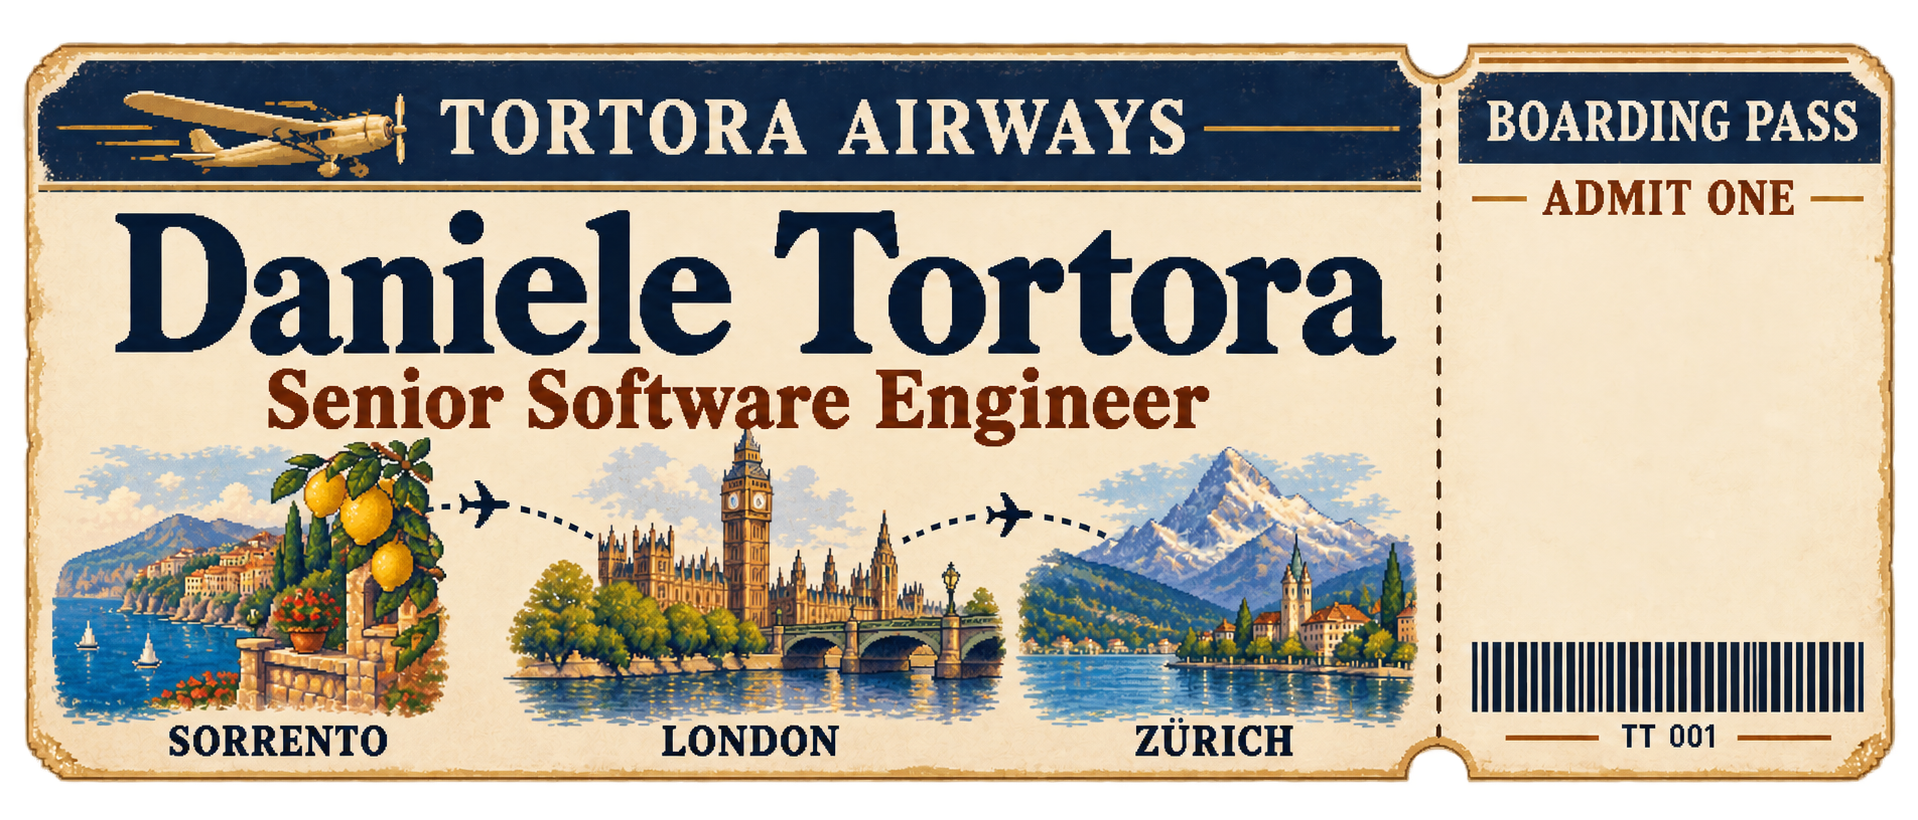
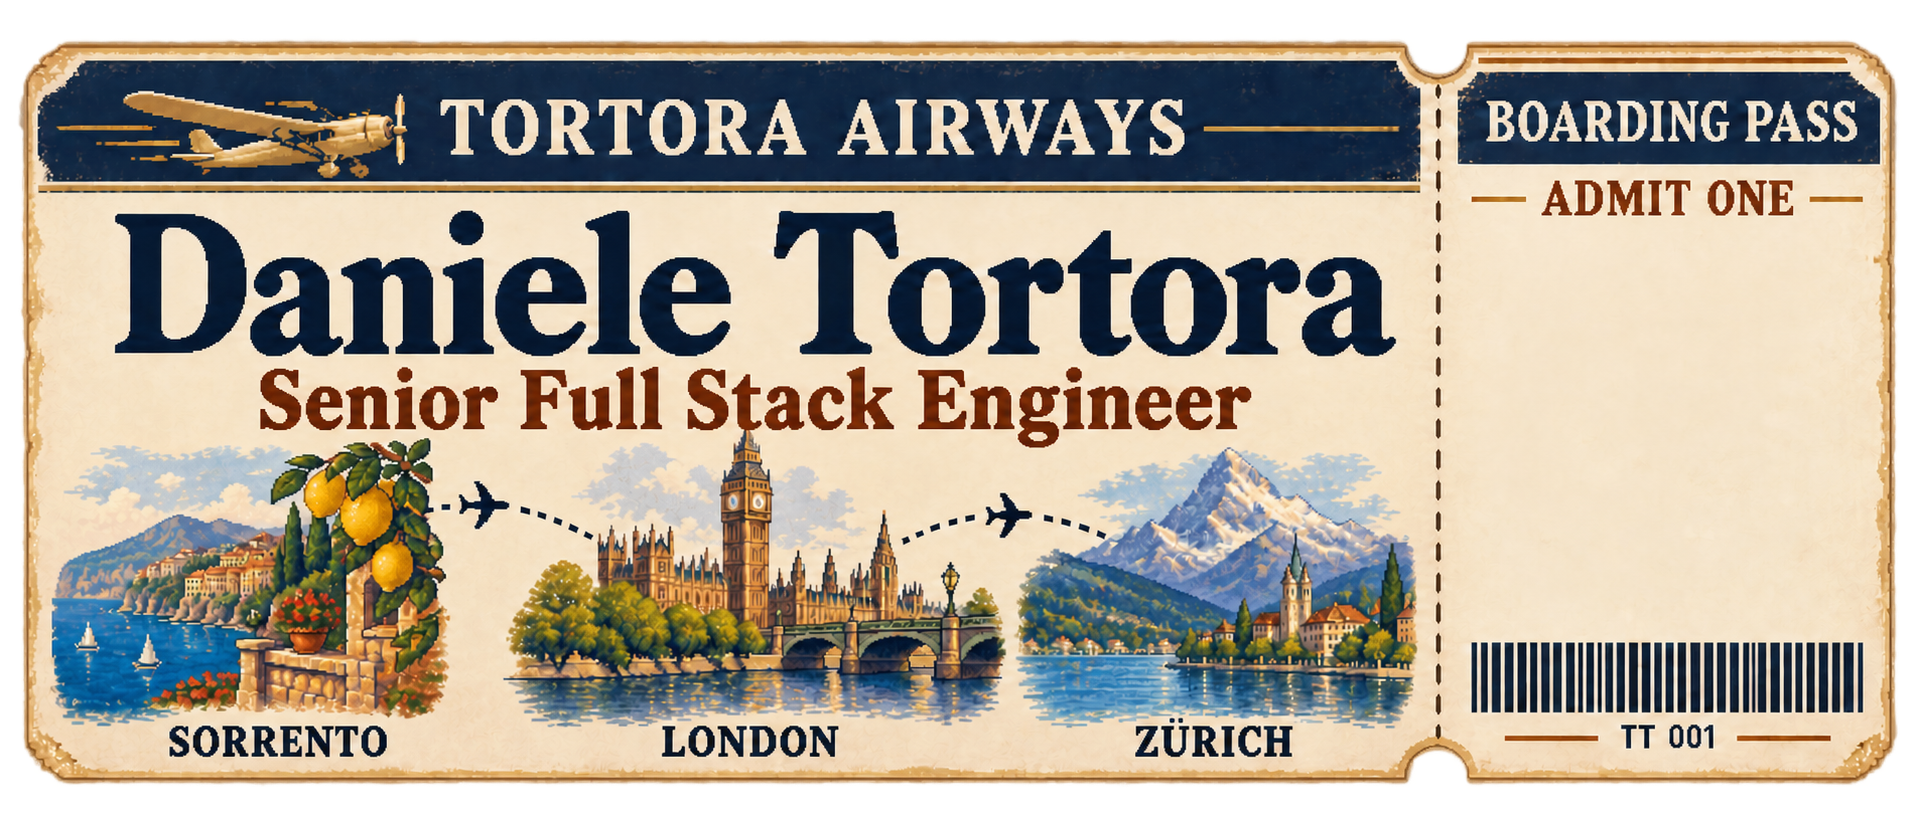
Use Senior Full Stack Engineer as official title

diff --git a/src/config/profile.ts b/src/config/profile.ts
@@ -6,7 +6,7 @@
 export const PROFILE = {
   // Personal
   name: "Daniele Tortora",
-  title: "Senior Full-Stack Engineer | AI Engineering",
+  title: "Senior Full Stack Engineer",
   location: "Zürich, Switzerland",
 
   journey:
@@ -24,7 +24,7 @@ export const PROFILE = {
   // Bio/About summary
   bio: `Originally from Sorrento, I moved to London and then to Zürich, where I now live.
 
-As a software engineer with 10 years of experience, I've built my career on a core belief: that the most powerful systems are defined by their human experience.
+As a Senior Full Stack Engineer with 10 years of experience, I've built my career on a core belief: that the most powerful systems are defined by their human experience.
 
 I earned a BSc in Psychology and an MSc in Clinical Psychology at Federico II in Naples, graduating 110/110 in each. That background drives me to bridge the divide between complex software architecture and elegant, intuitive user interfaces.
 
@@ -108,7 +108,7 @@ When I'm not coding, you can find me:
   },
 
   // Experience summary
-  experienceSummary: `Senior Full-Stack Engineer with 10 years building data-intensive interfaces, scalable APIs, and distributed systems.
+  experienceSummary: `Senior Full Stack Engineer with 10 years building data-intensive interfaces, scalable APIs, and distributed systems.
 
 At Snyk, I helped launch the credit-based Billing & Usage Dashboard and built scanner features serving 500K+ daily scans. A worker-thread and caching redesign cut p95 latency by 65% and tripled throughput.
 
@@ -165,7 +165,7 @@ I also wrote AI engineering playbooks adopted by 100+ Snyk engineers and placed 
     },
     {
       company: "Frontiers",
-      role: "Technical Lead",
+      role: "Senior Full Stack Engineer",
       period: "Feb 2023 - May 2024",
       country: "switzerland",
       highlights: [
@@ -175,7 +175,7 @@ I also wrote AI engineering playbooks adopted by 100+ Snyk engineers and placed 
     },
     {
       company: "Meta",
-      role: "Frontend Engineer",
+      role: "Senior Full Stack Engineer",
       period: "Jun 2022 - Feb 2023",
       country: "switzerland",
       highlights: [
@@ -185,7 +185,7 @@ I also wrote AI engineering playbooks adopted by 100+ Snyk engineers and placed 
     },
     {
       company: "Tundra",
-      role: "Senior Frontend Engineer",
+      role: "Senior Full Stack Engineer",
       period: "Nov 2021 - Jun 2022",
       country: "switzerland",
       highlights: [
@@ -195,7 +195,7 @@ I also wrote AI engineering playbooks adopted by 100+ Snyk engineers and placed 
     },
     {
       company: "Tray.ai",
-      role: "Senior Frontend Engineer",
+      role: "Senior Full Stack Engineer",
       period: "Jan 2021 - Oct 2021",
       country: "london",
       highlights: [
@@ -205,7 +205,7 @@ I also wrote AI engineering playbooks adopted by 100+ Snyk engineers and placed 
     },
     {
       company: "OVO Energy | Noble | Hackney Council",
-      role: "Software Developer",
+      role: "Senior Full Stack Engineer",
       period: "Sep 2016 - Jan 2021",
       country: "london",
       highlights: [
@@ -219,8 +219,8 @@ I also wrote AI engineering playbooks adopted by 100+ Snyk engineers and placed 
     siteUrl: "https://danieletortora.com/",
     siteName: "Daniele Tortora - Portfolio",
     shortDescription:
-      "Senior Full-Stack Engineer in Zürich with 10 years building data-intensive UIs, scalable APIs, and distributed systems. Explore my career in a 90s point-and-click adventure.",
-    currentRole: "Senior Full-Stack Engineer",
+      "Senior Full Stack Engineer in Zürich with 10 years building data-intensive UIs, scalable APIs, and distributed systems. Explore my career in a 90s point-and-click adventure.",
+    currentRole: "Senior Full Stack Engineer",
     currentCompany: "Snyk",
     twitter: "@floroz87",
     themeColor: "#1a1a2e",
@@ -230,9 +230,7 @@ I also wrote AI engineering playbooks adopted by 100+ Snyk engineers and placed 
     keywords: [
       "Daniele Tortora",
       "floroz",
-      "Senior Software Engineer",
-      "Frontend Engineer",
-      "Full Stack Developer",
+      "Senior Full Stack Engineer",
       "React Developer",
       "TypeScript",
       "Vue.js",

diff --git a/src/config/dialogTrees.ts b/src/config/dialogTrees.ts
@@ -10,7 +10,7 @@ export const DIALOG_TREE: Record<string, DialogNode> = {
   // Intro - shown first after welcome screen with typewriter effect
   intro: {
     speaker: "daniele",
-    text: `Hey! Welcome to my portfolio. I'm Daniele, a software engineer based in ${PROFILE.location}.`,
+    text: `Hey! Welcome to my portfolio. I'm Daniele, a Senior Full Stack Engineer based in ${PROFILE.location}.`,
     options: [{ id: "continue", label: "Continue...", nextNode: "intro-2" }],
   },
 

diff --git a/src/components/dialog/__tests__/WelcomeScreen.browser.test.tsx b/src/components/dialog/__tests__/WelcomeScreen.browser.test.tsx
@@ -67,9 +67,7 @@ describe("WelcomeScreen: the title card", () => {
     await expect
       .element(page.getByRole("heading", { name: PROFILE.name }))
       .toBeInTheDocument();
-    await expect
-      .element(page.getByText(PROFILE.title.split(" | ")[0]))
-      .toBeInTheDocument();
+    await expect.element(page.getByText(PROFILE.title)).toBeInTheDocument();
   });
 
   test("Space starts the game", async () => {

diff --git a/assets-src/prompts/boarding-pass.md b/assets-src/prompts/boarding-pass.md
@@ -7,9 +7,9 @@ Generated with the built-in `image_gen` tool on 2026-09-30. Transparent backgrou
 Use case: stylized-concept
 Asset type: final standalone welcome-screen boarding-pass artwork for a 1992–1996 LucasArts-inspired adventure portfolio, to sit over an existing dark travel trunk background.
 Create one beautiful horizontal boarding pass, straight-on flat artwork, not a photographed object and not a full screen. Transparent background. Output canvas 1536 by 656 (approximately 2.34:1). Ticket fills almost the whole image, leaving only a tiny transparent margin. Clean stepped corners and one perforated vertical tear line at 74% width, creating a right-hand stub. A small semicircular notch at top and bottom of that perforation. Cream paper with subtle edge-only wear, navy ink, muted golden brass accents, restrained rust and blue details. Period-authentic sophisticated VGA adventure-game painted pixel art, hand-drawn editorial travel illustration, carefully resolved square pixels and clean letterforms. No modern effects, no photographic perspective, no rotation.
-LAYOUT: left main ticket 74% of width. Narrow navy header across left main ticket containing a small elegant plane icon and exact words "TORTORA AIRWAYS" in cream. Main hero lettering "Daniele Tortora" in very large strong navy serif, completely legible, readable at half image size. Immediately below in dark warm brown, exact role "Senior Software Engineer" in clear bold lettering, smaller but generous. Below the role, a horizontal itinerary illustration running along the bottom half: miniature painted vignettes of London's clock tower by river, a Zurich Alpine mountain and lake, and sunlit Sorrento coastal cliffs and lemon branch; linked by a subtle dotted flight route. Each vignette has one clear bold all-caps location label directly beneath it: "LONDON", "ZURICH", "SORRENTO". Illustrations should be atmospheric and polished, not emoji or clip-art. All text lives on clean uncluttered paper with very high contrast and generous spacing.
+LAYOUT: left main ticket 74% of width. Narrow navy header across left main ticket containing a small elegant plane icon and exact words "TORTORA AIRWAYS" in cream. Main hero lettering "Daniele Tortora" in very large strong navy serif, completely legible, readable at half image size. Immediately below in dark warm brown, exact role "Senior Full Stack Engineer" in clear bold lettering, smaller but generous. Below the role, a horizontal itinerary illustration running along the bottom half: miniature painted vignettes of London's clock tower by river, a Zurich Alpine mountain and lake, and sunlit Sorrento coastal cliffs and lemon branch; linked by a subtle dotted flight route. Each vignette has one clear bold all-caps location label directly beneath it: "LONDON", "ZURICH", "SORRENTO". Illustrations should be atmospheric and polished, not emoji or clip-art. All text lives on clean uncluttered paper with very high contrast and generous spacing.
 RIGHT STUB: slightly warmer cream, header "BOARDING PASS" small but legible at top; "ADMIT ONE" beneath it. Keep the central 55% of stub height TOTALLY BLANK clean cream for a live HTML keyboard button, with NO button drawn and no SPACE, PRESS, START, arrows or instruction text anywhere. At the very bottom only, a modest vintage barcode and tiny "TT 001". No additional invented text. No passengers, names other than requested name, QR codes, logos, gradients, drop-shadow halos, oversize distressed marks, blur, or decorative text outlines.
-Exact text to include only: "TORTORA AIRWAYS", "Daniele Tortora", "Senior Software Engineer", "LONDON", "ZURICH", "SORRENTO", "BOARDING PASS", "ADMIT ONE", "TT 001".
+Exact text to include only: "TORTORA AIRWAYS", "Daniele Tortora", "Senior Full Stack Engineer", "LONDON", "ZURICH", "SORRENTO", "BOARDING PASS", "ADMIT ONE", "TT 001".
 
 ## Journey order edit — 2026-10-01
 
@@ -17,4 +17,8 @@ Built-in `image_gen` edit of `src/assets/remaster/title/boarding-pass.webp`, wit
 
 ### Final edit prompt
 
-Use case: precise-object-edit. Edit target: the attached vintage illustrated boarding pass game asset. Change ONLY the three city vignette illustrations and their city labels in the bottom of the left main ticket to this left-to-right chronological order: SORRENTO (lemon tree and Italian coast), LONDON (Big Ben and Westminster), ZÜRICH (Swiss lake, city and Alps). Keep the two dotted flight arrows pointing left to right between adjacent cities. Reposition the existing illustrations faithfully with matching sizes. Preserve the entire ticket silhouette, original aspect ratio 1919x820, transparent surrounding background, vintage pixel-painting texture, all existing typography, title TORTORA AIRWAYS, Daniele Tortora, Senior Software Engineer, BOARDING PASS, ADMIT ONE, barcode, TT 001, and exact composition of the right stub with its blank center reserved for live UI controls. No new objects, no start button, no background scene. Only reorder the cities and write the Swiss label ZÜRICH.
+Use case: precise-object-edit. Edit target: the attached vintage illustrated boarding pass game asset. Change ONLY the three city vignette illustrations and their city labels in the bottom of the left main ticket to this left-to-right chronological order: SORRENTO (lemon tree and Italian coast), LONDON (Big Ben and Westminster), ZÜRICH (Swiss lake, city and Alps). Keep the two dotted flight arrows pointing left to right between adjacent cities. Reposition the existing illustrations faithfully with matching sizes. Preserve the entire ticket silhouette, original aspect ratio 1919x820, transparent surrounding background, vintage pixel-painting texture, all existing typography, title TORTORA AIRWAYS, Daniele Tortora, Senior Full Stack Engineer, BOARDING PASS, ADMIT ONE, barcode, TT 001, and exact composition of the right stub with its blank center reserved for live UI controls. No new objects, no start button, no background scene. Only reorder the cities and write the Swiss label ZÜRICH.
+
+## Official title edit — 2026-10-08
+
+Built-in `image_gen` text-localization edit of the approved boarding-pass artwork. Replaced only the role line with “Senior Full Stack Engineer”; all other wording and artwork stays the same.
